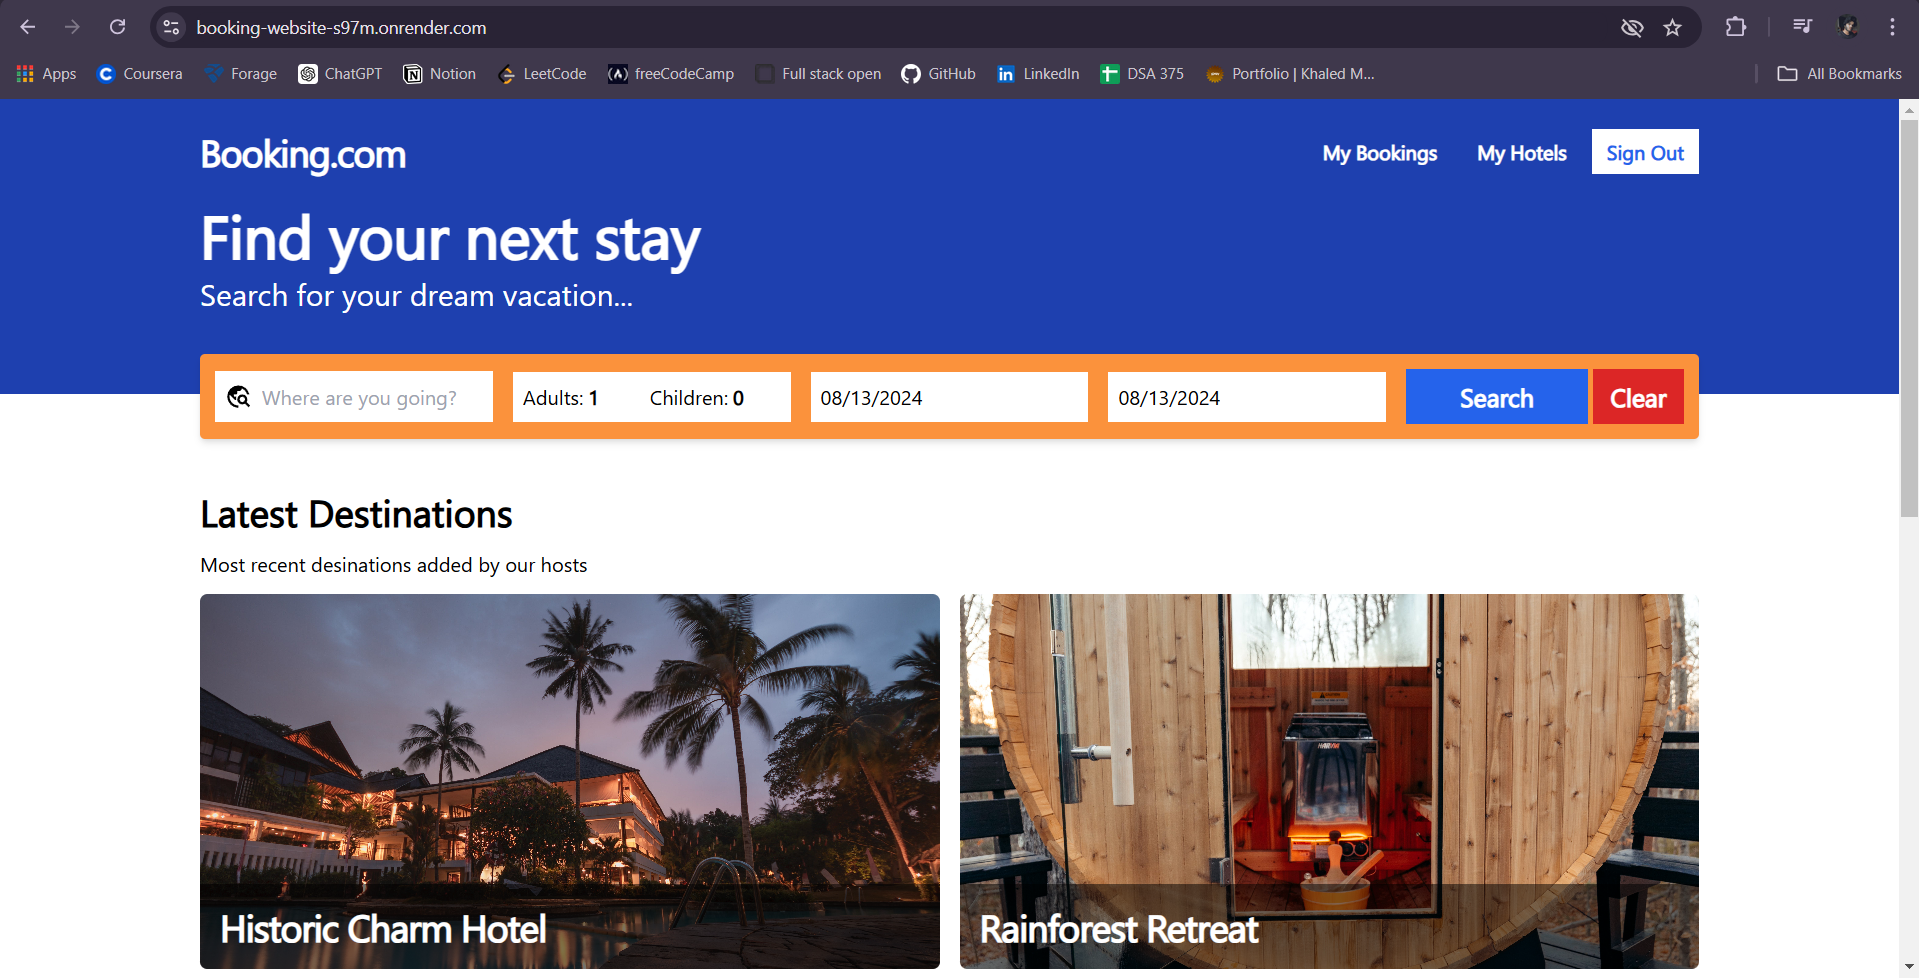
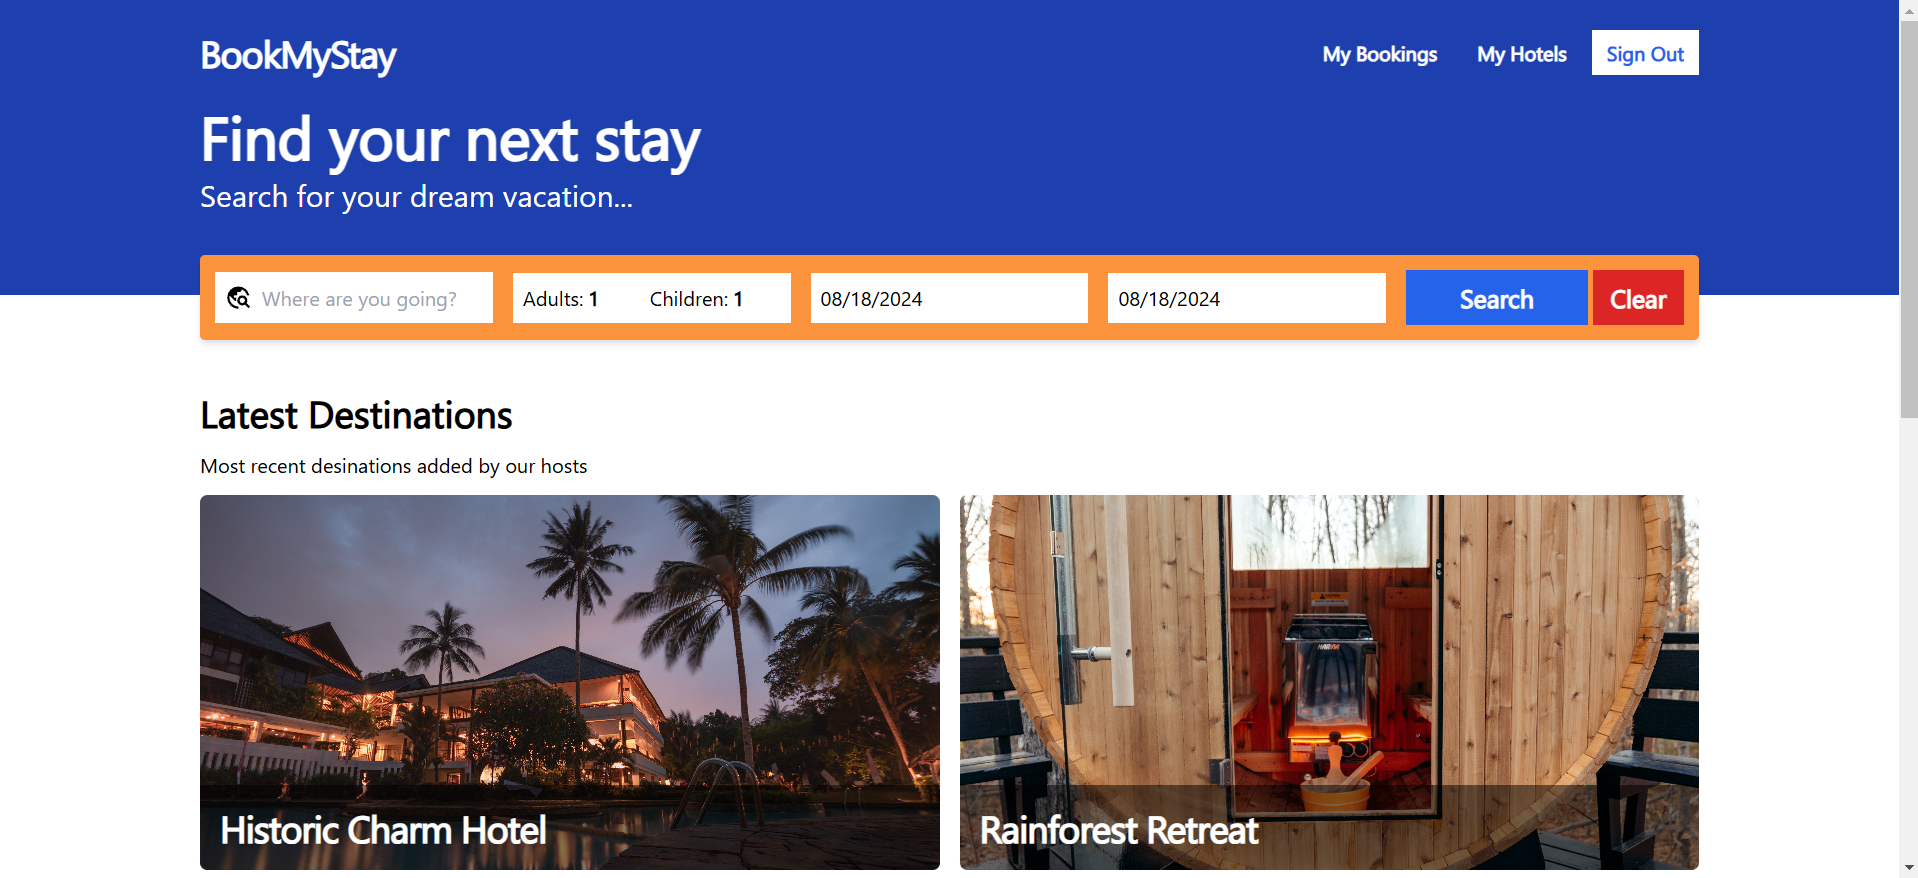
firebase-deploy script added

diff --git a/src/components/projects/Data.jsx b/src/components/projects/Data.jsx
@@ -3,53 +3,53 @@ import Shakkhat from "../../assets/Shakkhat_profile.png";
 import TaskManager from "../../assets/taskmanagerproject.png";
 import JobPortal from "../../assets/Jobportal_home.png";
 import Insurance from "../../assets/insurance_home.png";
-import NotesApp from "../../assets/NotesApp.png";
+import NotesApp from "../../assets/notes_app.png";
 import BookingApp from "../../assets/booking_app.png";
 
 export const projectsData = [
   {
     id: 1,
+    image: NotesApp,
+    title: "NoteSnap: MERN Notes Website",
+    category: "MERN",
+    link: "https://github.com/BryaN759/MERN-Notes-App",
+    url: "https://mern-notes-web.onrender.com/",
+  },
+  {
+    id: 2,
+    image: BookingApp,
+    title: "BookMyStay: MERN Booking Platform",
+    category: "MERN",
+    link: "https://github.com/BryaN759/MERN-Booking-website",
+    url: "https://booking-website-s97m.onrender.com/",
+  },
+  {
+    id: 3,
+    image: JobPortal,
+    title: "JobConnect: MERN Job Portal",
+    category: "MERN",
+    link: "https://github.com/BryaN759/Internship-and-Job-Board",
+  },
+  {
+    id: 4,
     image: KenaKata,
     title: "KenaKata: Django E-commerce Website",
     category: "Django",
     link: "https://github.com/BryaN759/Django-Ecommerce",
   },
   {
-    id: 2,
+    id: 5,
     image: Shakkhat,
     title: "Shakkhat: Django & Vue3 Social Media",
     category: "Django",
     link: "https://github.com/BryaN759/Django-and-Vue3-Social-Media-Website",
   },
   {
-    id: 3,
+    id: 6,
     image: TaskManager,
     title: "Django Task Manager",
     category: "Django",
     link: "https://github.com/BryaN759/Django-Task-Manager-app",
-  },
-  {
-    id: 4,
-    image: JobPortal,
-    title: "MERN stack Job Portal Website",
-    category: "MERN",
-    link: "https://github.com/BryaN759/Internship-and-Job-Board",
-  },
-  {
-    id: 5,
-    image: NotesApp,
-    title: "MERN stack Notes App",
-    category: "MERN",
-    link: "https://github.com/BryaN759/MERN-Notes-App",
-    url: "https://mern-notes-web.onrender.com/",
-  },
-  {
-    id: 6,
-    image: BookingApp,
-    title: "MERN stack Booking App",
-    category: "MERN",
-    link: "https://github.com/BryaN759/MERN-Booking-website",
-    url: "https://booking-website-s97m.onrender.com/",
   },
   {
     id: 7,
@@ -65,10 +65,10 @@ export const projectsNav = [
     name: "All",
   },
   {
-    name: "Django",
+    name: "MERN",
   },
   {
-    name: "MERN",
+    name: "Django",
   },
   {
     name: "Php",
